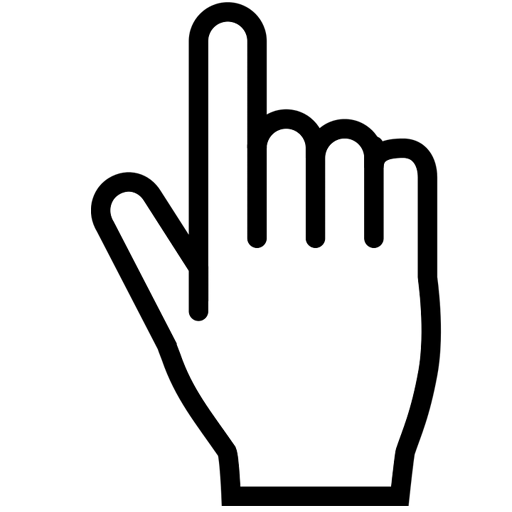
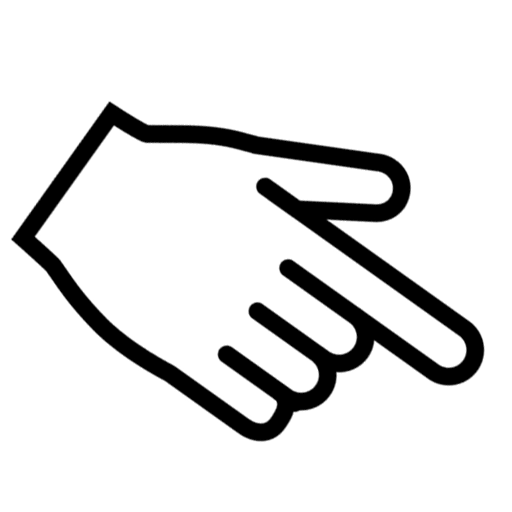
yay jar click

Changed region(s): [[0.0312, 0.0, 0.9688, 1.0]]

diff --git a/css/homepage.css b/css/homepage.css
@@ -31,7 +31,7 @@
 
 .settingsTab{
 	margin: auto;
-	width: 90vw;
+	width: 70vw;
 }
 
 .splashScreen{
@@ -44,10 +44,10 @@
 	display: flex;
 	flex-direction: row;
 	position: relative;
-	left: -10%;
-	top: 20%;
-	height: 60%;
-	width: 80%;
+	left: -10vw;
+	top: 25vh;
+	height: 60vh;
+	width: 80vw;
 	text-align: left;
 	z-index: 2;
 }
@@ -106,8 +106,8 @@
 
 #clickMeIndicator{
 	position: absolute;
-	top: 500px;
-	left: 120px;
+	top: 50px;
+	left: -140px;
 	width: 200px;
 	height: 75px;
 	z-index: 5;
@@ -115,7 +115,6 @@
 
 #clickMeIndicatorInput{
 	position: absolute;
-	bottom: 20px;
 	margin-left: auto;
 	margin-right: auto;
 	left: 0;
@@ -126,15 +125,16 @@
 }
 
 #clickLabel{
+	color: orange;
 	position: relative;
-	top: 70px;
+	bottom: 10px;
 }
 
 
 
 #jarQuote{
 	position: relative;
-	top: -30%;
+	top: -35%;
 }
 
 #jarQuote .quoteBlock{
@@ -204,7 +204,12 @@
     }
 }
 
-
+#browseTitle{
+	font-weight: bold;
+	font-size: 1.8rem;
+	height: 60px;
+	margin-top: 40px;
+}
 
 
 @media screen and (max-width: 767px) {
@@ -219,7 +224,36 @@
 		text-align: center;
 	}
 
+	#clickMeIndicator{
+		top: -20px;
+		left: -10px;
+	}
+	#clickMeIndicatorInput{
+		width: 40px;
+		height: 40px;
+	}
 
+	#jarQuote{
+		top: 0;
+	}
+	#jarQuote .quoteBlock{
+		width: 80vw;
+		height: 32vh;
+	}
+
+	#jarQuote .quoteText{
+		height: 17vh;
+		font-size: 1rem;
+	}
+	#jarQuote .button{
+		font-size: 1rem;
+		width: 6vh;
+	    height: 6vh;
+	}
+	#jarQuote .gratitudeRatings{
+		font-size: 1rem;
+		margin-top: 10px;
+	}
 
 	#title{
 		position: static;
@@ -235,8 +269,8 @@
 	#jar img, #tree img,#jarImg {
 		margin: 0 auto;
 
-		width: 180px;
-		height: 239px;
+		width: 150px;
+		height: 200px;
 	}
 
 	.settingsButton, .splashScreen{

diff --git a/js/scrollAnim.js b/js/scrollAnim.js
@@ -7,7 +7,7 @@ function showScrollIndicator(){
     var pos = $("#scrollIndicator").position().top;
     var f = 0;
     var mov = 0;
-    var loop = setInterval(scrollAnim, 20);
+    var loop = setInterval(scrollAnim, 40);
     function scrollAnim(){
         if(f >= 80 && f < 90){
             mov++;
@@ -27,20 +27,22 @@ function showClickIndicator(){
 
     //animation
     var elem0 = document.getElementById("clickMeIndicator");
-    var pos = $("#clickMeIndicator").position().top;
+    var posLeft = $("#clickMeIndicator").position().left;
+    var posTop = $("#clickMeIndicator").position().top;
     var f = 0;
     var mov = 0;
     var loop = setInterval(scrollAnim, 20);
     function scrollAnim(){
         if(f >= 80 && f < 90){
-            mov--;
-        } else if( f > 80 && f < 100) {
             mov++;
+        } else if( f > 80 && f < 100) {
+            mov--;
         } else if (f == 100){
             f = 0;
         }
         f++;
-        elem0.style.top = (pos + mov) + 'px';
+        elem0.style.left = (posLeft + mov) + 'px';
+        elem0.style.top = (posTop + mov) + 'px';
     }
 }
 
@@ -51,7 +53,7 @@ $(document).ready(
         $("#scrollIndicatorInput").click(
             function(){
                 window.scroll({
-                  top: window.innerHeight,
+                  top: window.innerHeight * 0.9,
                   behavior: 'smooth'
                 });
             }

diff --git a/js/jarclick.js b/js/jarclick.js
@@ -1,12 +1,16 @@
 $("#jarQuote").hide();
+$("#clickLabel").hide();
 
 var clickCount = 0;
 
 function jarClick(){
     clickCount++;
     if(clickCount <= 1){
-        $("#titleText").hide();
-        $("#titleDescription").hide();
+        $("#titleText").fadeOut();
+        $("#titleDescription").fadeOut();
+        $("#clickLabel").fadeIn();
+    } else if (clickCount == 2){
+        $('#clickMeIndicator').fadeOut();
     }
     $("#jarQuote").load("backend_php/getRandomQuote.php");
     $("#jarQuote").show();

diff --git a/css/styles.css b/css/styles.css
@@ -96,17 +96,17 @@ a:hover{
 .quoteBlock{
 	margin-top: 10px;
 	height: 55vh;
-  	width: 80vw;
+  	width: 70vw;
 	padding-top: 100px;
 	text-align: center;
 	position: relative;
 	background-image: url("/images/widePaper.png");
 	background-repeat: no-repeat;
 	background-size: cover;
-
 }
 
 .quoteText{
+
 	margin: 0 auto 0 auto;
 	display: block;
 	font-size: 2rem;
@@ -129,7 +129,7 @@ a:hover{
 }
 
 .gratitudeRatings{
-	margin: 20px 0 0 0;
+	margin-top: 20px;
 	font-size: 1.2rem;
 	color: purple;
 }

diff --git a/about.html b/about.html
@@ -38,7 +38,10 @@
 					</div>
 				</div>
 			</div>
-            <input type="image" src = "/images/scroll.png" id = "scrollIndicator" value=''/>
+            <div id = "scrollIndicator">
+                <input type="image" src = "/images/scroll.png" id = "scrollIndicatorInput" value=''/>
+                <!-- <label id = "scrollLabel">Scroll down to browse all quotes!</label> -->
+            </div>
         </div>
         <div class = "storyContainer">
             <div class = "aboutStory">

diff --git a/index.php b/index.php
@@ -39,8 +39,8 @@
 				<div>
 					<input type="image" src = "/images/jar.png" id = "jarImg" value=''/>
 					<div id = "clickMeIndicator">
+						<label id = "clickLabel">Draw another quote!</label>
 						<input type="image" src = "/images/click.png" id = "clickMeIndicatorInput" value=''/>
-						<!-- <label id = "clickLabel">Click to draw a random quote!</label> -->
 					</div>
 				</div>
 				<div id = 'title'>
@@ -59,6 +59,9 @@
 				<input type="image" src = "/images/scroll.png" id = "scrollIndicatorInput" value=''/>
 				<!-- <label id = "scrollLabel">Scroll down to browse all quotes!</label> -->
 			</div>
+		</div>
+		<div id = "browseTitle">
+			Browse all quotes!
 		</div>
 
 		<input alt = "search filter settings button" type="image" src="/images/gear.png" class = "settingsButton" value=''/>
